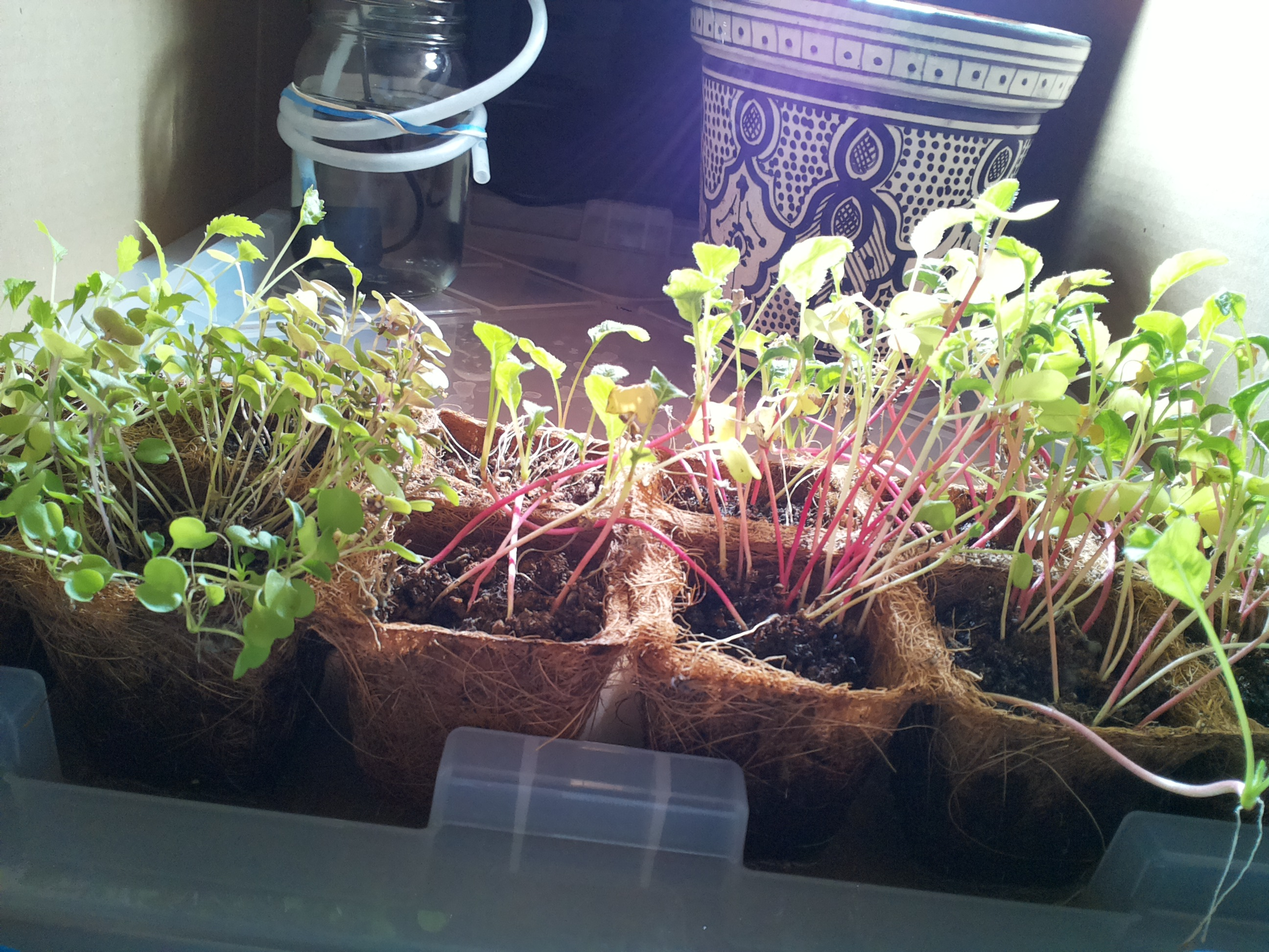
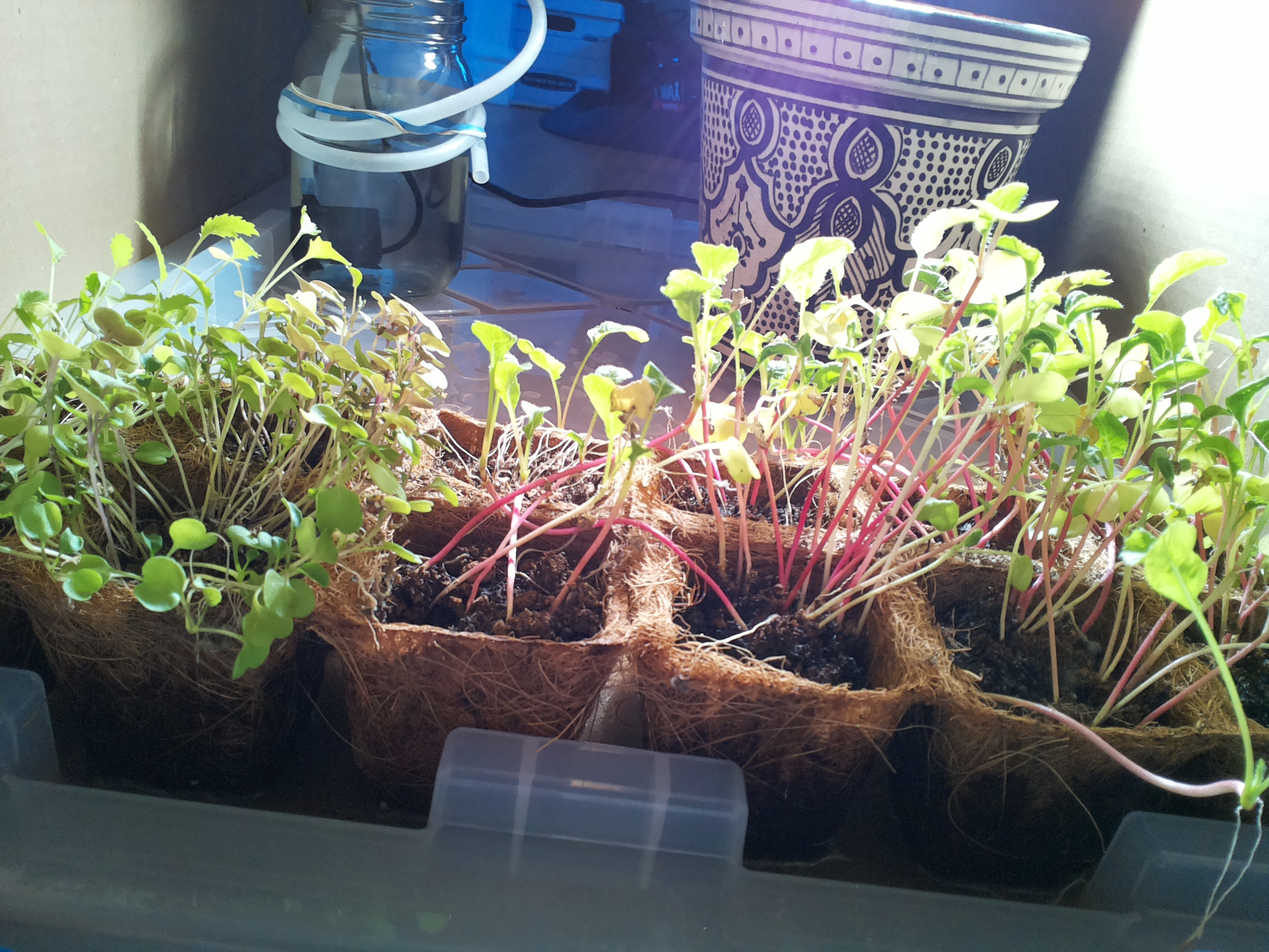
mirror sync 2026-09-29 13:10

diff --git a/home/bubbles/farmer-claude/JOURNAL.md b/home/bubbles/farmer-claude/JOURNAL.md
@@ -723,3 +723,12 @@
 - Lamp: on — correct for photoperiod.
 - Watering: 4s pulse per standing order 2 (4s of 60s daily cap used; water.py OK, pump plug verified OFF after).
 - No changes to standing orders. Next: 13:07 observe-only; 19:22 pulse unless surfaces look dark. Still pending: verify lamp-sync.sh fires in logs/cron.log after the next reboot.
+
+### 2026-09-29 13:07 — midday check-in (cron, observe only)
+- Standing order 7 check: previous entry was this morning 07:12 — no gap, cron auth holding.
+- Photo: seedlings green and turgid in all 12 cells (day 36) — true leaves growing, leggy pink splayed stems in the middle cells unchanged per standing order 6 (mechanical; thinning/support still needs a human hand). Pale/whitish cotyledons top-right same as recent days — no spread or shriveling. No wilting, mold, pests, or tipping. Sun/purple flare across the frame as usual.
+- Jar: dark tinted water visible in the lower glass body, tube coiled with outlet in place beside the jar pointing down over the lid — level consistent with recent mid-body readings, pump covered.
+- Soil: dark damp centers in the middle cells where not hidden by foliage; drier crumbly patches with pale coir walls elsewhere. No dry-down alarm since the morning pulse.
+- Lamp: on — correct for photoperiod.
+- Watering: none (observe-only per standing order 2); 4s of 60s daily cap used. Evening 19:22 pulse planned unless surfaces look dark.
+- No changes to standing orders. Still pending: verify lamp-sync.sh fires in logs/cron.log after the next reboot.
